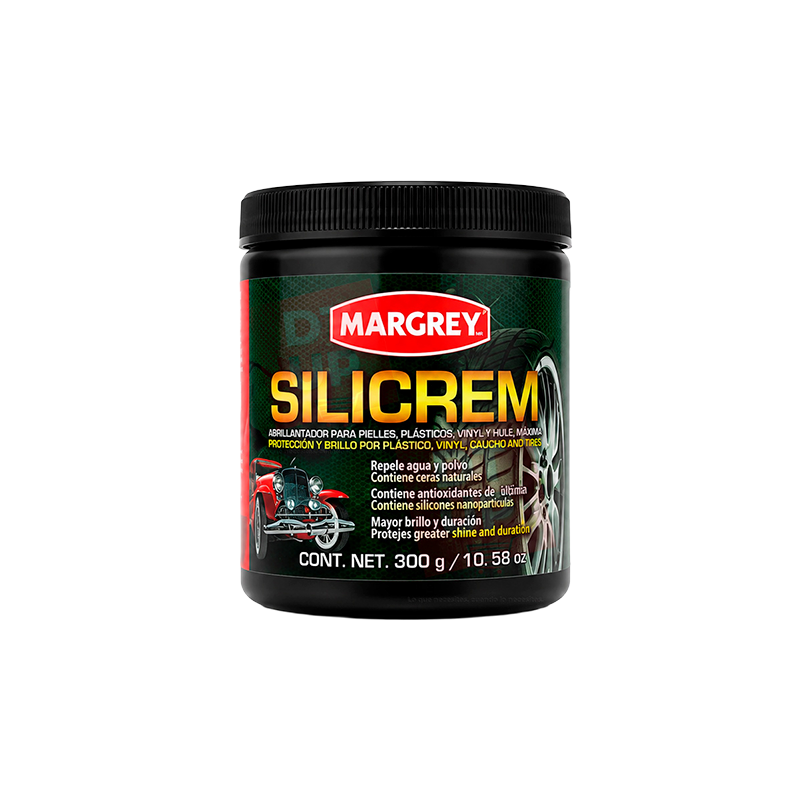
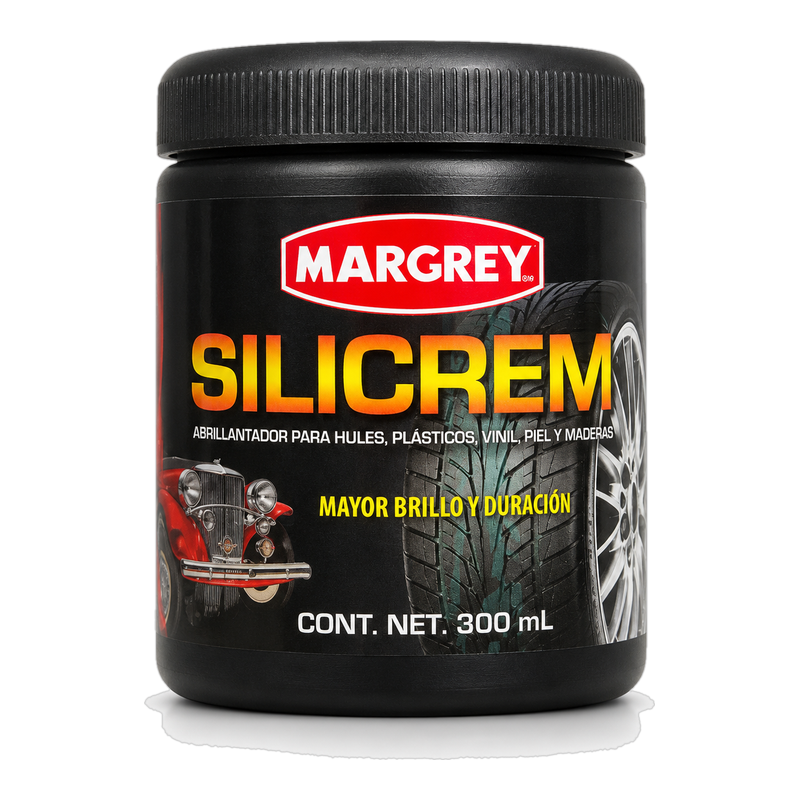
Silicrem W 300 mL: foto nueva (#57)
* Silicrem W 300 mL: nueva imagen (kit PNG + archivo temporal para Cloudinary)

Claude-Session: https://claude.ai/code/session_01AKrZmGNUCDKYugvrTiJ4iJ

* Silicrem W 300 mL: foto nueva en el cotizador (Cloudinary dl2s0vpwb)

Claude-Session: https://claude.ai/code/session_01AKrZmGNUCDKYugvrTiJ4iJ

---------

diff --git a/src/PedidoTabla.jsx b/src/PedidoTabla.jsx
@@ -156,7 +156,7 @@ const productCatalog = [
   { product: "GEL AZUL W", code: "7501716137118", sku: "0104-21-205", description: "PAQUETE 6 PIEZAS 500 ML", unitDescription: "PIEZA INDIVIDUAL 500 ML", price: 246.00, unitPrice: 41.00, link: "https://www.comercializadoradtup.com/products/gel-azul-margrey-500-ml-abrillantador-llantas?_pos=1&_psq=gel&_ss=e&_v=1.0", image:"https://res.cloudinary.com/diefezach/image/upload/v1726873368/gel_azul_ztpkhd.jpg"},
   { product: "GEL AZUL W", code: "-", sku: "0104-21-309", description: "PORRON 20 LT", price: 1070.50, unitPrice: 53.53, image:"https://res.cloudinary.com/diefezach/image/upload/v1759293845/Margrey_2025_hlhntt.jpg" },
   { product: "SILICREM W", category: "SILICREM W", name: "silicrem w" },
-  { product: "SILICREM W S/E", code: "7501716100136", sku: "0105-95-232", description: "PAQUETE 6 PIEZAS 300 ML", unitDescription: "PIEZA INDIVIDUAL 300 ML", price: 198.00, unitPrice: 33.00, link:"https://www.comercializadoradtup.com/products/silicrem-margrey-300-g?variant=45041283858476", image:"https://res.cloudinary.com/diefezach/image/upload/v1726873373/silicrem_W_m8a0fc.jpg"},
+  { product: "SILICREM W S/E", code: "7501716100136", sku: "0105-95-232", description: "PAQUETE 6 PIEZAS 300 ML", unitDescription: "PIEZA INDIVIDUAL 300 ML", price: 198.00, unitPrice: 33.00, link:"https://www.comercializadoradtup.com/products/silicrem-margrey-300-g?variant=45041283858476", image:"https://res.cloudinary.com/dl2s0vpwb/image/upload/v1795488627/margrey/silicrem-w-300ml-v2.jpg"},
   { product: "BRILLO PLATINUM", category: "BRILLO PLATINUM", name: "brillo platinum" },
   { product: "BRILLO PLATINUM", code: "7501716106336", sku: "0118-21-206", description: "PAQUETE 6 PIEZAS 1 LT", unitDescription: "PIEZA INDIVIDUAL 1 LT", price: 258.00, unitPrice: 43.00, link: "https://www.comercializadoradtup.com/products/brillo-platinum-margrey-1l-abrillantador-tableros-llantas?_pos=1&_psq=brillo&_ss=e&_v=1.0", image:"https://res.cloudinary.com/diefezach/image/upload/v1726873364/brillo_platinum_mf6nkv.jpg"},
   { product: "CERA LIQUIDA W", category: "CERA LIQUIDA W", name: "cera liquida w" },
